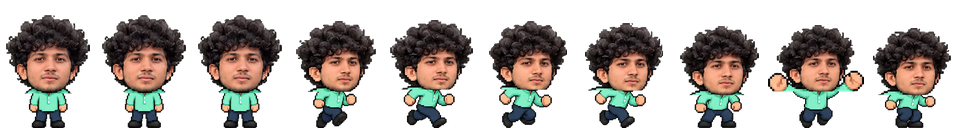
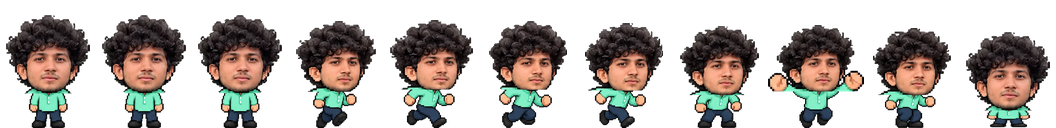
Add duck pose (down/S) and tiled grass/dirt ground
Claude-Session: https://claude.ai/code/session_0155UMeifMUtKpoqGjPGdD2d

diff --git a/src/main.js b/src/main.js
@@ -32,22 +32,29 @@ function makePlaceholder(scene, a) {
 
 // Built-in default art (used until you drop in your own PNG for that code)
 function rng(seed) { return () => (seed = (seed * 16807) % 2147483647) / 2147483647; }
-function dirtPixels(ctx, w, h, y0, r) {
-  ctx.fillStyle = '#8b5a2b'; ctx.fillRect(0, y0, w, h - y0);
-  for (let i = 0; i < 40; i++) {
-    ctx.fillStyle = r() < 0.5 ? '#7a4e24' : '#9c6a37';
-    ctx.fillRect(Math.floor(r() * w / 2) * 2, y0 + Math.floor(r() * (h - y0) / 2) * 2, 2, 2);
-  }
-}
 const ART = {
   grass(ctx, w, h) {
-    const r = rng(7); dirtPixels(ctx, w, h, 0, r);
-    ctx.fillStyle = '#4caf50'; ctx.fillRect(0, 0, w, 8);
-    ctx.fillStyle = '#7bd36b'; ctx.fillRect(0, 0, w, 3);
-    ctx.fillStyle = '#3e9142';
-    for (let x = 0; x < w; x += 4) ctx.fillRect(x, 8, 2, 2 + Math.floor(r() * 4));
+    ART.dirt(ctx, w, h);
+    ctx.fillStyle = '#2e7d32'; ctx.fillRect(0, 0, w, 11);   // grass cap
+    ctx.fillStyle = '#4caf50'; ctx.fillRect(1, 1, w - 2, 8);
+    ctx.fillStyle = '#81d46a'; ctx.fillRect(1, 1, w - 2, 3);
+    ctx.fillStyle = '#4caf50';                              // drips over the edge
+    for (const x of [3, 11, 19, 26]) ctx.fillRect(x, 9, 4, 4);
+    ctx.fillStyle = '#2e7d32';
+    for (const x of [3, 11, 19, 26]) ctx.fillRect(x, 13, 4, 1);
   },
-  dirt(ctx, w, h) { dirtPixels(ctx, w, h, 0, rng(13)); },
+  dirt(ctx, w, h) {
+    // clear tile: dark outline, light top-left bevel, dark bottom-right bevel
+    ctx.fillStyle = '#4a2c12'; ctx.fillRect(0, 0, w, h);
+    ctx.fillStyle = '#8b5a2b'; ctx.fillRect(1, 1, w - 2, h - 2);
+    ctx.fillStyle = '#a8743f'; ctx.fillRect(1, 1, w - 2, 2); ctx.fillRect(1, 1, 2, h - 2);
+    ctx.fillStyle = '#6b4220'; ctx.fillRect(1, h - 3, w - 2, 2); ctx.fillRect(w - 3, 1, 2, h - 2);
+    const r = rng(13);
+    for (let i = 0; i < 10; i++) {
+      ctx.fillStyle = r() < 0.5 ? '#6b4220' : '#a8743f';
+      ctx.fillRect(4 + Math.floor(r() * 12) * 2, 4 + Math.floor(r() * 12) * 2, 2, 2);
+    }
+  },
   sky(ctx, w, h) {
     const g = ctx.createLinearGradient(0, 0, 0, h);
     g.addColorStop(0, '#4a9fe8'); g.addColorStop(1, '#bfe6ff');
@@ -148,8 +155,9 @@ class Game extends Phaser.Scene {
       this.anims.create({ key: 'run', frames: this.anims.generateFrameNumbers(k, { start: 3, end: 6 }), frameRate: 10, repeat: -1 });
       this.anims.create({ key: 'jumpUp', frames: [{ key: k, frame: 8 }] });
       this.anims.create({ key: 'fall', frames: [{ key: k, frame: 9 }] });
+      if (this.textures.get(k).frameTotal > 11) this.anims.create({ key: 'duck', frames: [{ key: k, frame: 10 }] });
     }
-    this.big = false; this.invulnUntil = 0; this.jumps = 0; this.dashUntil = 0; this.dashReady = 0; this.done = false;
+    this.big = false; this.ducking = false; this.invulnUntil = 0; this.jumps = 0; this.dashUntil = 0; this.dashReady = 0; this.done = false;
 
     this.physics.add.collider(this.player, this.solids, (p, b) => this.hitBlock(b));
     this.physics.add.collider(this.enemies, this.solids);
@@ -162,7 +170,7 @@ class Game extends Phaser.Scene {
     this.cameras.main.setBounds(0, 0, W, H).startFollow(this.player, true, 0.15, 0.15);
 
     const k = this.input.keyboard;
-    this.keys = k.addKeys('LEFT,RIGHT,UP,SPACE,SHIFT,A,D,W');
+    this.keys = k.addKeys('LEFT,RIGHT,UP,DOWN,SPACE,SHIFT,A,D,W,S');
 
     this.coinCount = this.registry.get('coins') || 0;
     this.hud = this.add.text(10, 10, '', { fontFamily: 'monospace', fontSize: 18, color: '#fff', stroke: '#000', strokeThickness: 4 }).setScrollFactor(0).setDepth(10);
@@ -177,7 +185,8 @@ class Game extends Phaser.Scene {
     const p = this.player;
     p.setDisplaySize(w, h);
     const fw = p.frame.realWidth, fh = p.frame.realHeight;
-    p.body.setSize(fw * 0.5, fh * 0.92).setOffset(fw * 0.25, fh * 0.08);
+    const top = this.ducking ? 0.45 : 0.08;  // ducking = shorter hitbox
+    p.body.setSize(fw * 0.5, fh * (1 - top)).setOffset(fw * 0.25, fh * top);
   }
 
   tile(x, y, key, type) {
@@ -282,8 +291,13 @@ class Game extends Phaser.Scene {
     const onGround = p.body.blocked.down;
     if (onGround) this.jumps = 0;
 
+    // Ducking (on ground, hold DOWN/S): stop and shrink hitbox
+    const wantDuck = onGround && (k.DOWN.isDown || k.S.isDown);
+    if (wantDuck !== this.ducking) { this.ducking = wantDuck; this.setPlayerSize(this.big); }
+
     // Movement / dash
     if (time < this.dashUntil) { /* keep dash velocity */ }
+    else if (this.ducking) p.setVelocityX(0);
     else if (left) { p.setVelocityX(-c.speed); p.setFlipX(true); }
     else if (right) { p.setVelocityX(c.speed); p.setFlipX(false); }
     else p.setVelocityX(0);
@@ -294,13 +308,14 @@ class Game extends Phaser.Scene {
     }
 
     // Jumping
-    if (jumpPressed) {
+    if (jumpPressed && !this.ducking) {
       if (onGround) { p.setVelocityY(-c.jump); this.jumps = 1; sfx(this, 'S1'); }
       else if (c.ability === 'doubleJump' && this.jumps < 2) { p.setVelocityY(-c.jump * 0.85); this.jumps = 2; sfx(this, 'S1'); }
     }
     if (!jumpHeld && p.body.velocity.y < -150) p.setVelocityY(-150); // variable jump height
     if (this.animated) {
-      if (!p.body.blocked.down) p.anims.play(p.body.velocity.y < 0 ? 'jumpUp' : 'fall', true);
+      if (this.ducking && this.anims.exists('duck')) p.anims.play('duck', true);
+      else if (!p.body.blocked.down) p.anims.play(p.body.velocity.y < 0 ? 'jumpUp' : 'fall', true);
       else if (Math.abs(p.body.velocity.x) > 10) p.anims.play('run', true);
       else p.anims.play('idle', true);
     }

diff --git a/art-src/make_a1_sheet.py b/art-src/make_a1_sheet.py
@@ -1,6 +1,6 @@
 # Builds assets/images/A1.png (spritesheet) from art-src/dhruv_sheet.webp:
 # removes white background + shadows, slices frames, enlarges the head (HEAD_SCALE).
-# Frame order: idle 0-2, run 3-6, jump 7-9.
+# Frame order: idle 0-2, run 3-6, jump 7-9, duck 10.
 import os, json
 import numpy as np
 from PIL import Image
@@ -57,9 +57,18 @@ for sy, sx in boxes:
     out.alpha_composite(body, (ox, body_off))
     out.alpha_composite(big, (int(ox + cx - big.width / 2), 8))
     frames.append(out.crop(out.getbbox()))
+    if len(frames) == 1:  # build a duck pose from the first idle frame: squash body, lower head
+        bb = body.crop((0, neck - 4, body.width, body.height))
+        sq = bb.resize((int(bb.width * 1.12), int(bb.height * 0.5)), Image.LANCZOS)
+        dw = max(sq.width, big.width) + 8
+        duck = Image.new('RGBA', (dw, big.height - 6 + sq.height))
+        duck.alpha_composite(sq, ((dw - sq.width) // 2, big.height - 6))
+        duck.alpha_composite(big, (int((dw - sq.width) // 2 + cx * 1.12 - big.width / 2), 0))
+        duck_frame = duck.crop(duck.getbbox())
 
+frames.append(duck_frame)  # frame 10 = duck
 FW, FH = 96, 128  # cell size in output sheet
-fw_src = max(f.width for f in frames); fh_src = max(f.height for f in frames)
+fw_src = max(f.width for f in frames); fh_src = max(f.height for f in frames[:-1])
 scale = min(FW / fw_src, FH / fh_src)
 sheet = Image.new('RGBA', (FW * len(frames), FH))
 for i, f in enumerate(frames):

diff --git a/ASSETS.md b/ASSETS.md
@@ -6,7 +6,7 @@ Every placeholder in the game shows its code (e.g. `#A1`). Give me the file or t
 
 | Code | What | Draw size (px) | Notes |
 |---|---|---|---|
-| A1 | Dhruv (player) | 96×128 per frame | **Done.** Spritesheet, 10 frames: idle 0-2, run 3-6, jump 7-9. Built by `art-src/make_a1_sheet.py` |
+| A1 | Dhruv (player) | 96×128 per frame | **Done.** Spritesheet, 11 frames: idle 0-2, run 3-6, jump 7-9, duck 10. Built by `art-src/make_a1_sheet.py` |
 | B1 | Walking enemy | 32×32 | Facing **left** |
 | B2 | Flying enemy | 32×32 | Facing left |
 | C1 | Coin / collectible | 20×20 | Doesn't have to be a coin: a face, a snack, anything |

diff --git a/README.md b/README.md
@@ -8,7 +8,7 @@ python3 -m http.server 8000
 ```
 Then open http://localhost:8000. Opening `index.html` directly won't work, because browsers block local file loading.
 
-**Controls:** ←/→ or A/D to move · Space/↑/W to jump · Shift to dash (dash character)
+**Controls:** ←/→ or A/D to move · Space/↑/W to jump · ↓/S to duck · Shift to dash (dash character)
 
 ## Structure
 - `src/assets.js` holds every personalizable image, sound, name and ability
